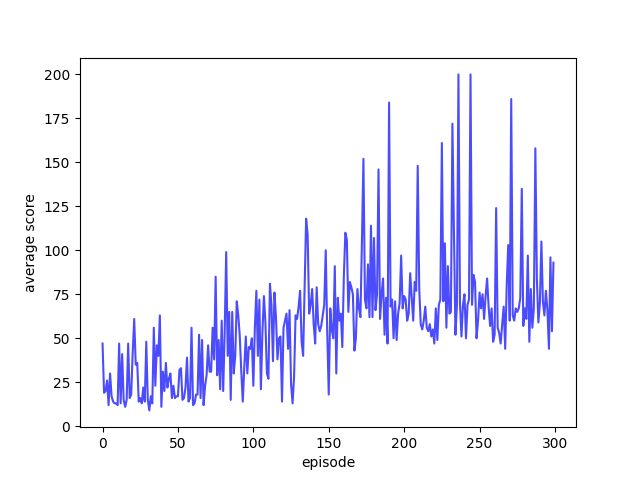
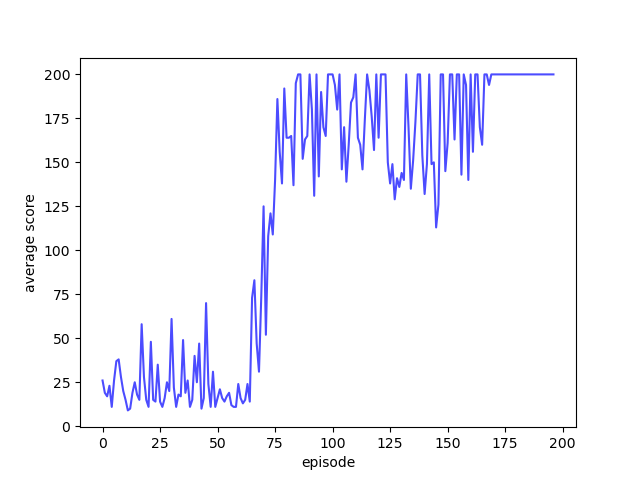
[docs] SQN

diff --git a/RL_assignment-main/assignment_02/part2/SQN.py b/RL_assignment-main/assignment_02/part2/SQN.py
@@ -52,19 +52,21 @@ class DQN(tf.keras.Model):
     #     x = self.fc2(x)
     #     q = self.fc_out(x)
     #     return q
-        self.fc1 = Dense(24, activation='relu', kernel_initializer=RandomUniform(-1, 1), bias_initializer=RandomUniform(-1, 1))
-        self.fc2 = Dense(24, activation='relu', kernel_initializer=RandomUniform(-1, 1), bias_initializer=RandomUniform(-1, 1))
+        self.fc1 = Dense(24, activation='relu', kernel_initializer=RandomUniform(-1, 1))
+        self.fc2 = Dense(24, activation='relu', kernel_initializer=RandomUniform(-1, 1))
         self.fc_out = Dense(action_size,
-                            kernel_initializer=RandomUniform(-1, 1), bias_initializer=RandomUniform(-1, 1))
-        self.exp_q = Lambda(lambda x: math.exp(x/0.5))
+                            kernel_initializer=RandomUniform(-1, 1))
+
     
     def call(self, input):
         x = self.fc1(input)
         x = self.fc2(x)
         q = self.fc_out(x)
-        exp_q = self.exp_q(q)
 
-        return exp_q
+        return q
+
+    def exp(self, x):
+        return math.exp(x)
 
 class DQNAgent:
     def __init__(self, state_size, action_size):
@@ -80,10 +82,10 @@ class DQNAgent:
         self.epsilon_min = 0.01
         self.batch_size = 500
         self.train_start = 1000
-        self.l = 0.1
+        self.l = 0.5
 
         # replay memory size
-        self.memory = deque(maxlen=10000)
+        self.memory = deque(maxlen=3000)
 
         # make model, target_model
         self.model = DQN(action_size)
@@ -91,13 +93,12 @@ class DQNAgent:
         self.optimizer = Adam(learning_rate=self.learning_rate)
 
         # initialize target_model
+        #self.get_action_stochastic(np.array([[0, 0, 0, 0]]))
+        #self.get_action_stochastic2(np.array([[0, 0, 0, 0]]))
         self.update_target_model()
 
     def update_target_model(self):
-        #print(self.model.get_weights())
-        #print("@@@@@@@@@@@@@@@@@@@@@@@@@@@@@@@@@")
         self.target_model.set_weights(self.model.get_weights())
-        #print(self.target_model.get_weights())
         return
 
     def get_action(self, state):
@@ -107,14 +108,34 @@ class DQNAgent:
             q_value = self.model(state)
             return np.argmax(q_value[0])
 
+
+
     def get_action_stochastic(self, state):
         if np.random.rand() <= self.epsilon:
             return random.randrange(self.action_size)
         else:
-            exp_q = self.model(state)[0]
-            exp_q = np.array(exp_q)
-                    exp_q
-            return np.random.choice(self.action_size, 1, p=policy)[0]
+            q = np.array(self.model(state)[0])
+            q = np.array(q + 1e-5)
+            exp_q = np.exp(q/self.l)
+            if np.inf in exp_q:
+                return exp_q[0].index(np.inf)
+            policy = exp_q/np.sum(exp_q)
+            if any(tf.math.is_nan(policy)):
+                return random.randrange(self.action_size)
+            try:
+                return np.random.choice(self.action_size, 1, p=policy)[0]
+            except:
+                return np.argmax(self.model(state)[0])
+
+    def get_action_stochastic2(self, state):
+
+        q = self.target_model(state)[0]
+        q = np.array(q)
+        exp_q = np.exp(q/self.l)
+        if np.inf in exp_q:
+            return exp_q[0].index(np.inf)
+        policy = exp_q/np.sum(exp_q)
+        return np.random.choice(self.action_size, 1, p=policy)[0]
 
         
     def append_sample_replay(self, state, action, reward, next_state, done):
@@ -135,17 +156,22 @@ class DQNAgent:
         #train parameter
         model_params = self.model.trainable_variables
         with tf.GradientTape() as tape:
-            predicts = self.model(states)
+            # predicts = self.model(states)
+            q = self.model(states)
+
             one_hot_action = tf.one_hot(actions, self.action_size)
-            predicts = tf.reduce_sum(one_hot_action * predicts, axis=1)
+            predicts = tf.reduce_sum(one_hot_action * q, axis=1)
 
-            target_predicts = self.target_model(next_states)
-            #target 신경망은 업데이트를 안함
-            target_predicts = tf.stop_gradient(target_predicts)
+            target_q = self.target_model(next_states)
+            # #target 신경망은 업데이트를 안함
+            target_q = tf.stop_gradient(target_q)
 
-            max_q = np.amax(target_predicts, axis = -1)
-            targets = rewards + (1 - dones) * self.discount_factor * max_q
+            LSE_max_q = np.log(tf.reduce_sum(tf.exp(target_q/self.l), axis= 1)+1e-5)*self.l
+            #max_q = np.max(target_q, axis=1)
+            targets = rewards + (1 - dones) * self.discount_factor * LSE_max_q
+            # loss = tf.reduce_mean(tf.square(targets - predicts))
             loss = tf.reduce_mean(tf.square(targets - predicts))
+
 
         grads = tape.gradient(loss, model_params)
         self.optimizer.apply_gradients(zip(grads, model_params))
@@ -162,7 +188,7 @@ def main():
     scores, episodes = [], []
     score_past100 = deque(maxlen=100)
 
-    num_episode = 300
+    num_episode = 2000
     avg_score = 0
     dirpath = os.path.dirname(os.path.abspath(__file__)).replace('\\', '/')
 
@@ -194,8 +220,11 @@ def main():
             state = next_state
 
             if done:
+                #if len(agent1.memory) >= agent1.train_start:
+                if e % 2 == 0:
+                    agent1.update_target_model()    
+
                 # 각 에피소드마다 타깃 모델을 모델의 가중치로 업데이트
-                agent1.update_target_model()
                 # 에피소드마다 학습 결과 출력
                 score_past100.append(score)
                 print("step: {:3d} | episode: {:3d} | score : {:3.2f} | memory length: {:4d} | epsilon: {:.4f}".format(

diff --git a/RL_assignment-main/assignment_02/test.py b/RL_assignment-main/assignment_02/test.py
@@ -3,9 +3,17 @@ import random
 import math
 import os
 import matplotlib.pyplot as plt
+import tensorflow as tf
 #state = np.array([0])
 #state = np.reshape( state, [1, 16])
 
 
 
-print(math.exp(1))
+q = np.array([44.35, 44.38])
+p = np.array(q + 1e-1)
+exp_q= np.exp(q/0.5)
+policy = exp_q/np.sum(exp_q)
+#a = np.log(a + 1e-5)
+#print(type(a))
+print(policy),
+print(p)

diff --git a/RL_assignment-main/assignment_02/part2/DQN.py b/RL_assignment-main/assignment_02/part2/DQN.py
@@ -75,8 +75,6 @@ class DQNAgent:
         self.update_target_model()
 
     def update_target_model(self):
-        print(self.model.get_weights())
-        print("@@@@@@@@@@@@@@@@@@@@@@@@@@@@@@@@@")
         self.target_model.set_weights(self.model.get_weights())
         return
 
